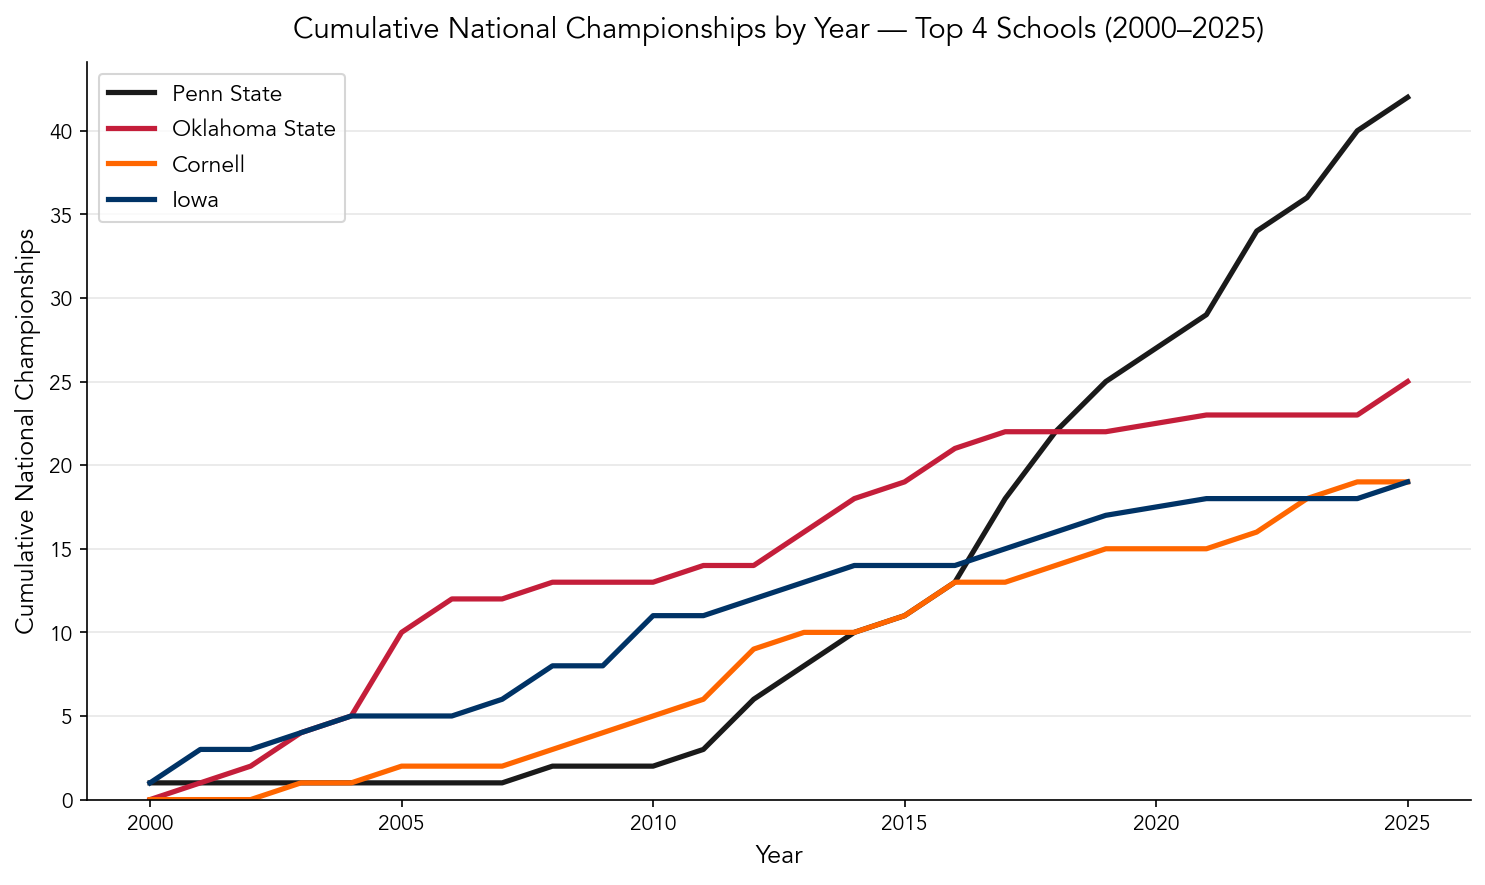
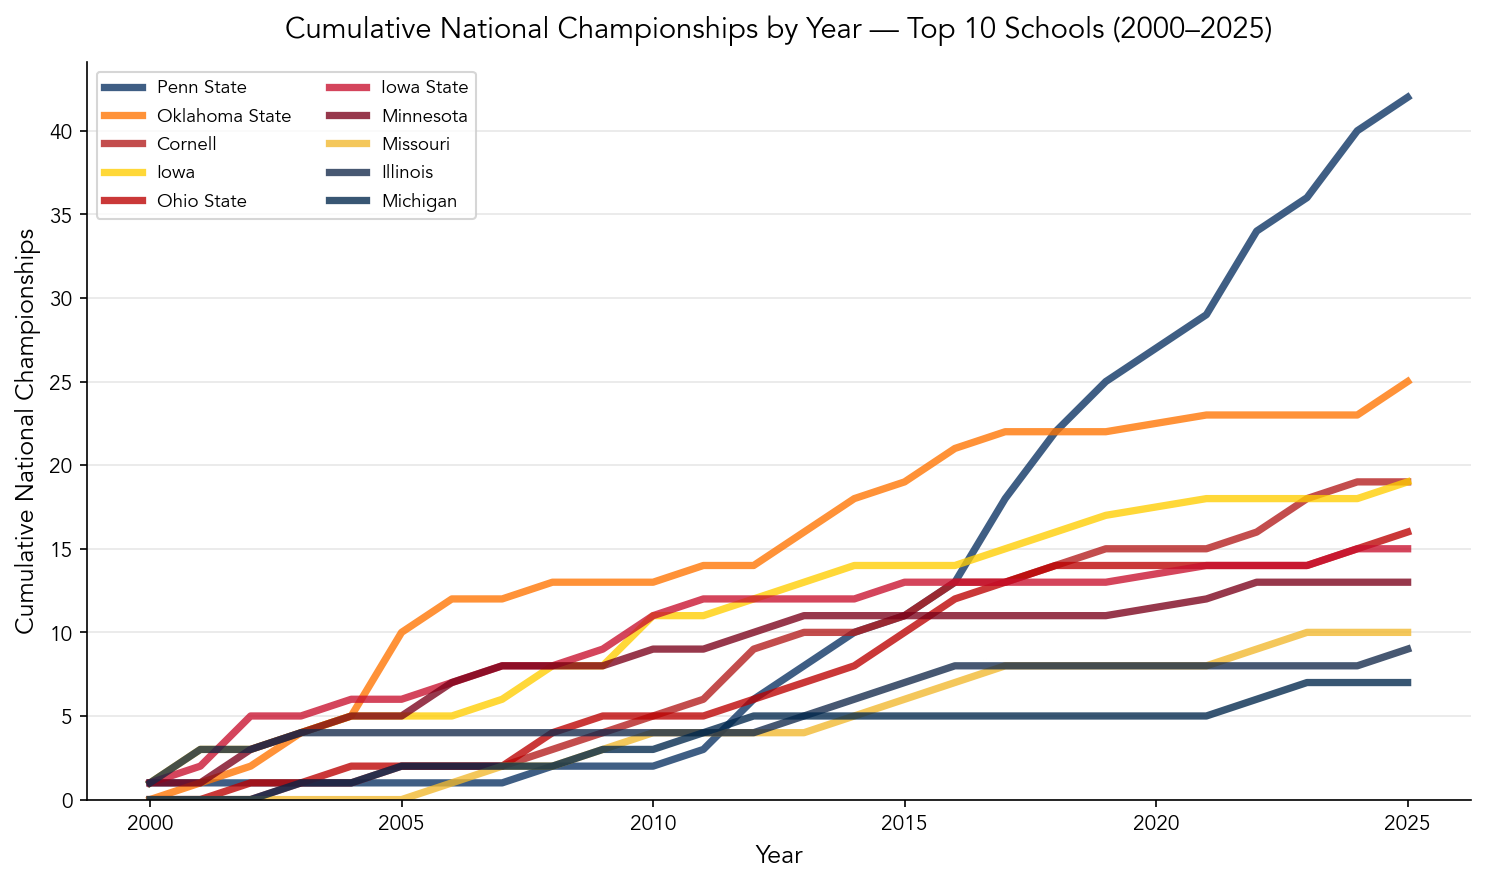
updated colors for schools and expanded to top 10 for cumulative graph

diff --git a/notebooks/analysis.py b/notebooks/analysis.py
@@ -19,6 +19,7 @@ from pathlib import Path
 # Paths
 ROOT_DIR = Path(__file__).parent.parent
 DATA_PATH = ROOT_DIR / "data" / "raw_data.csv"
+SCHOOLS_JSON_PATH = ROOT_DIR / "data" / "schools.json"
 CHARTS_DIR = ROOT_DIR / "charts"
 TABLES_DIR = ROOT_DIR / "tables"
 SITE_CHARTS_DIR = ROOT_DIR / "docs" / "charts"  # For GitHub Pages
@@ -2990,20 +2991,34 @@ school_for_diff = school_for_diff.sort_values("Seed_Diff_Sum", ascending=False)
 top5_overperform = school_for_diff.head(5)
 top5_underperform = school_for_diff.tail(5).sort_values("Seed_Diff_Sum", ascending=True)
 
-top4_aa = school_stats.nlargest(4, "AA_Count")
-top4_nc = school_stats.nlargest(4, "NC_Count")
-top4_aa_schools = top4_aa["School"].tolist()
-top4_nc_schools = top4_nc["School"].tolist()
 top10_aa = school_stats.nlargest(10, "AA_Count")
 top10_nc = school_stats.nlargest(10, "NC_Count")
+top10_aa_schools = top10_aa["School"].tolist()
+top10_nc_schools = top10_nc["School"].tolist()
 
 print(f"Schools with >= {MIN_AAS_FOR_SEED_DIFF} AAs (for seed diff): {len(school_for_diff)}")
 print("Top 5 overperformers (by seed diff sum):", top5_overperform[["School", "Seed_Diff_Sum", "AA_Count"]].values.tolist())
 print("Top 5 underperformers:", top5_underperform[["School", "Seed_Diff_Sum", "AA_Count"]].values.tolist())
-print("Top 4 by AAs (for charts):", top4_aa[["School", "AA_Count"]].values.tolist())
-print("Top 4 by NCs (for charts):", top4_nc[["School", "NC_Count"]].values.tolist())
+print("Top 10 by AAs (for charts):", top10_aa[["School", "AA_Count"]].values.tolist())
+print("Top 10 by NCs (for charts):", top10_nc[["School", "NC_Count"]].values.tolist())
 
-# Cumulative AAs and NCs by year for top-4 schools (for line charts)
+# Load school primary colors from data/schools.json (for cumulative line charts)
+school_primary_colors = {}
+if SCHOOLS_JSON_PATH.exists():
+    with open(SCHOOLS_JSON_PATH, "r") as f:
+        schools_data = json.load(f)
+    for entry in schools_data:
+        name = entry.get("school")
+        if name and entry.get("primary_color_1"):
+            school_primary_colors[name] = entry["primary_color_1"]
+DEFAULT_LINE_COLOR = "#555555"
+LINE_ALPHA = 0.78
+LINE_WIDTH = 3.5
+
+def get_school_color(school):
+    return school_primary_colors.get(school, DEFAULT_LINE_COLOR)
+
+# Cumulative AAs and NCs by year for top-10 schools (for line charts)
 all_years_sorted = sorted(df["Year"].unique())
 aa_by_school_year = df.groupby(["School", "Year"]).size().reset_index(name="AA_Count")
 nc_by_school_year = df[df["Place"] == 1].groupby(["School", "Year"]).size().reset_index(name="NC_Count")
@@ -3020,21 +3035,19 @@ def cumulative_by_year(schools, count_df, count_col):
             out.append({"School": school, "Year": year, "Cumulative": int(cum.loc[year])})
     return pd.DataFrame(out)
 
-cum_aa = cumulative_by_year(top4_aa_schools, aa_by_school_year, "AA_Count")
-cum_nc = cumulative_by_year(top4_nc_schools, nc_by_school_year, "NC_Count")
+cum_aa = cumulative_by_year(top10_aa_schools, aa_by_school_year, "AA_Count")
+cum_nc = cumulative_by_year(top10_nc_schools, nc_by_school_year, "NC_Count")
 
-# Colors for top-4 school lines (distinct)
-TOP4_COLORS = ["#1a1a1a", "#c41e3a", "#ff6600", "#003366"]  # dark, red, orange, blue
-
-# Chart: Cumulative All-Americans by year (top 4 schools)
+# Chart: Cumulative All-Americans by year (top 10 schools) — primary colors, thicker, semi-transparent
 fig, ax = plt.subplots(figsize=(10, 6))
-for idx, school in enumerate(top4_aa_schools):
+for school in top10_aa_schools:
     sub = cum_aa[cum_aa["School"] == school].sort_values("Year")
-    ax.plot(sub["Year"], sub["Cumulative"], color=TOP4_COLORS[idx], linewidth=2.5, label=school)
+    color = get_school_color(school)
+    ax.plot(sub["Year"], sub["Cumulative"], color=color, alpha=LINE_ALPHA, linewidth=LINE_WIDTH, label=school)
 ax.set_xlabel("Year", fontsize=12)
 ax.set_ylabel("Cumulative All-Americans", fontsize=12)
-ax.set_title("Cumulative All-Americans by Year — Top 4 Schools (2000–2025)", fontsize=14, fontweight="medium", pad=12)
-ax.legend(loc="upper left", fontsize=11)
+ax.set_title("Cumulative All-Americans by Year — Top 10 Schools (2000–2025)", fontsize=14, fontweight="medium", pad=12)
+ax.legend(loc="upper left", fontsize=9, ncol=2)
 ax.set_ylim(0, None)
 ax.spines["top"].set_visible(False)
 ax.spines["right"].set_visible(False)
@@ -3047,15 +3060,16 @@ plt.savefig(chart_aa_cum_site, dpi=150)
 plt.close()
 print(f"Saved: {chart_aa_cum_path}")
 
-# Chart: Cumulative National Championships by year (top 4 schools)
+# Chart: Cumulative National Championships by year (top 10 schools) — primary colors, thicker, semi-transparent
 fig, ax = plt.subplots(figsize=(10, 6))
-for idx, school in enumerate(top4_nc_schools):
+for school in top10_nc_schools:
     sub = cum_nc[cum_nc["School"] == school].sort_values("Year")
-    ax.plot(sub["Year"], sub["Cumulative"], color=TOP4_COLORS[idx], linewidth=2.5, label=school)
+    color = get_school_color(school)
+    ax.plot(sub["Year"], sub["Cumulative"], color=color, alpha=LINE_ALPHA, linewidth=LINE_WIDTH, label=school)
 ax.set_xlabel("Year", fontsize=12)
 ax.set_ylabel("Cumulative National Championships", fontsize=12)
-ax.set_title("Cumulative National Championships by Year — Top 4 Schools (2000–2025)", fontsize=14, fontweight="medium", pad=12)
-ax.legend(loc="upper left", fontsize=11)
+ax.set_title("Cumulative National Championships by Year — Top 10 Schools (2000–2025)", fontsize=14, fontweight="medium", pad=12)
+ax.legend(loc="upper left", fontsize=9, ncol=2)
 ax.set_ylim(0, None)
 ax.spines["top"].set_visible(False)
 ax.spines["right"].set_visible(False)

diff --git a/docs/reports/report_04_teams.md b/docs/reports/report_04_teams.md
@@ -14,7 +14,7 @@ This report groups the data by school and examines (1) seed–performance differ
 ## Executive Summary
 
 - **Seed–performance differential** is the sum of (Place − Seed) across all of a school’s All-Americans. Positive means the program tends to place better than seeded; negative means they tend to place worse. We restrict to schools with at least 15 AAs so the list reflects sustained performance rather than small-sample noise.
-- **All-Americans** and **National Championships** are shown as **top 10** tables. Cumulative line charts show how the **top 4** schools by each measure built their totals over 2000–2025.
+- **All-Americans** and **National Championships** are shown as **top 10** tables. Cumulative line charts show how the **top 10** schools by each measure built their totals over 2000–2025 (team primary colors, semi-transparent where lines overlap).
 
 ## Seed–Performance Differential
 
@@ -26,17 +26,17 @@ The chart below shows every school with at least 15 All-Americans, ordered by di
 
 *Schools with ≥15 AAs. Order is descending by differential (top = most overperform, bottom = most underperform).*
 
-## Top 4 Schools: Cumulative All-Americans and National Titles
+## Top 10 Schools: Cumulative All-Americans and National Titles
 
-The following charts show how the **top 4** schools by total All-Americans and the **top 4** by total national titles have accumulated those totals over time.
+The following charts show how the **top 10** schools by total All-Americans and the **top 10** by total national titles have accumulated those totals over time. Lines use each school’s primary color and are semi-transparent where they overlap.
 
-### Cumulative All-Americans by Year (Top 4 schools)
+### Cumulative All-Americans by Year (Top 10 schools)
 
-![Cumulative All-Americans by year — top 4 schools]({{ site.baseurl }}/charts/report_04_cumulative_aa_by_year.png)
+![Cumulative All-Americans by year — top 10 schools]({{ site.baseurl }}/charts/report_04_cumulative_aa_by_year.png)
 
-### Cumulative National Championships by Year (Top 4 schools)
+### Cumulative National Championships by Year (Top 10 schools)
 
-![Cumulative National Championships by year — top 4 schools]({{ site.baseurl }}/charts/report_04_cumulative_nc_by_year.png)
+![Cumulative National Championships by year — top 10 schools]({{ site.baseurl }}/charts/report_04_cumulative_nc_by_year.png)
 
 ### Top 10 schools by All-Americans and National Titles (tables)
 
